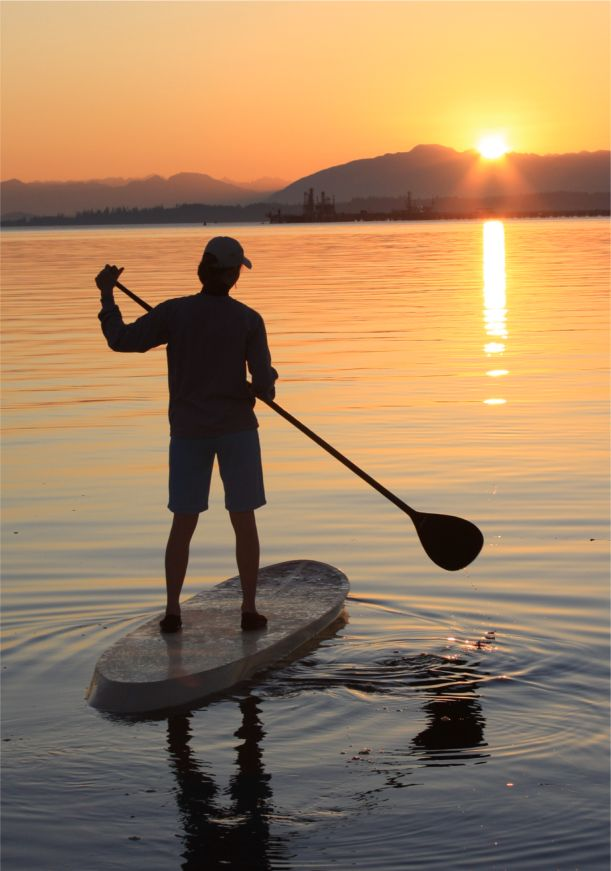
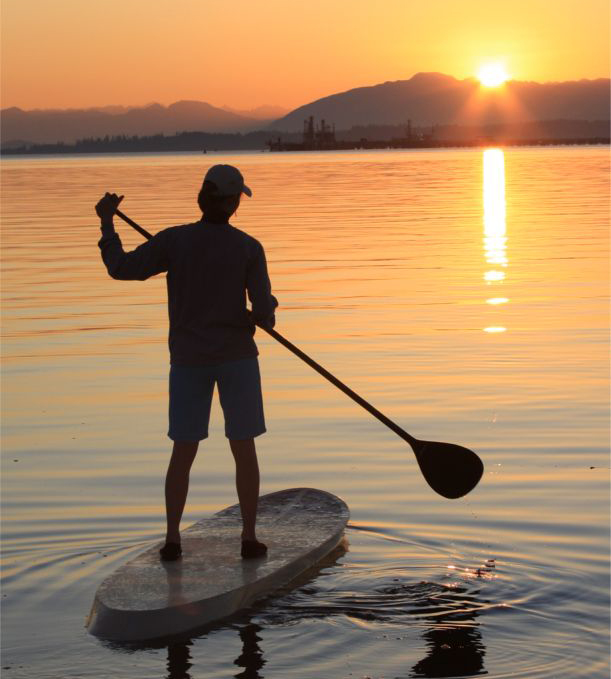
Proportioned image sizes

diff --git a/src/components/Projects.js b/src/components/Projects.js
@@ -1,5 +1,4 @@
 import React, { Component } from 'react';
-import test from '../img/screenshots/bella-divine.png';
 
 class Projects extends Component {
   render() {
@@ -29,20 +28,25 @@ class Projects extends Component {
 
 class ProjectCard extends Component {
   componentDidMount() {
-    this.refs.screenshot.style.background = "url('img/screenshots"
+    // this.refs.screenshot.style.background = "url('img/screenshots/" + this.props.projectScreenshot + "')";
+    // this.refs.screenshot.style.backgroundSize = 'cover';
+    // this.refs.screenshot.style.backgroundRepeat = 'no-repeat'
   }
+
   render() {
     return (
       <div className="project-card box-shadow">
-        <div className="project-screenshot" ref="screenshot"></div>
-        {/* <img src={require('../img/screenshots/' + this.props.projectScreenshot)} className="project-screenshot"/> */}
+        {/* <div className="project-screenshot" ref="screenshot"></div> */}
+        <div className="project-screenshot">
+          <img src={require('../img/screenshots/' + this.props.projectScreenshot)}/>
+        </div>
         <div className="project-content">
           <h1 className="project-title">{this.props.projectTitle}</h1>
           <p className="project-description">{this.props.projectDescription}</p>
           <div className="project-skills">
             {this.props.projectSkills.map((skill, index) => {
               return (
-                <p className="project-skill project-button">{skill}</p>
+                <p className="project-skill project-button" key={index}>{skill}</p>
               )
             })}
           </div>

diff --git a/src/styles/projects.scss b/src/styles/projects.scss
@@ -15,6 +15,7 @@
 
 .project {
     &-card {
+        position: relative;
         display: flex;
         margin-bottom: 4rem;
         border-radius: 4px;
@@ -22,13 +23,22 @@
     }
 
     &-screenshot {
-        border-top-left-radius: 4px;
-        border-bottom-left-radius: 4px;
         width: 40%;
-        height: 100%;
+        overflow: hidden;
+        
+        img {
+            border-top-left-radius: 4px;
+            border-bottom-left-radius: 4px;
+            display: block;
+            width: 100%;
+            height: 100%;
+            object-fit: cover;
+        }
+        
     }
 
     &-content {
+        width: 50%;
         padding: 3rem;
     }
 

diff --git a/src/styles/App.scss b/src/styles/App.scss
@@ -2,7 +2,7 @@ $m-gutter: 1rem;
 
 $c-navy: rgb(55, 65, 64);
 $c-beige: rgb(217, 202, 158);
-$c-grey: #7f8c8d;
+$c-grey: #bdc3c7;
 $c-yellow: #f1c40f;
 
 $c-black: #2c3e50;
